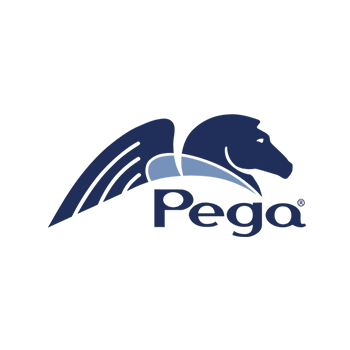
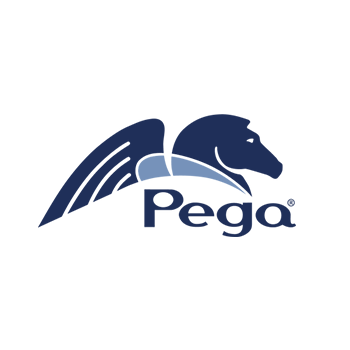
Update Career Pathway
Update Pega Icon image
Add SiteCore Icon

Changed region(s): [[0.1143, 0.3143, 0.8857, 0.6857]]

diff --git a/src/pages/CareerPathway/CareerPathway.js b/src/pages/CareerPathway/CareerPathway.js
@@ -6,7 +6,7 @@ import DevOpsIcon from "../../images/devops.png";
 import Pega from "../../images/pega.png";
 import BusinessAnalyst from "../../images/business-analyst.png";
 import DataAnalyst from "../../images/data-analytics.png";
-
+import SiteCore from "../../images/sitecore.png"
 import Quiz from "./Quiz";
 import RegisterYourInterest from "./RegisterYourInterest";
 import BackTopButton from "../../components/BackToTopButton";
@@ -15,6 +15,7 @@ import "./careerpathway.css";
 import Slider from "react-slick";
 import "./slick.css"; 
 import "./slick-theme.css";
+import Pathways from "./Pathways";
 
 
 const CPStyle = {
@@ -46,16 +47,22 @@ const CPStyle = {
     paddingBottom: "1%",
   },
 
+  slider:{
+    width: "65%",
+    padding: "1%",
+    marginBottom: "3%",
+  },
+
   card: {
-    width: "18rem",
-   // padding: "0.1rem",
-   // marginLeft: "1%",
-   // marginRight: "1%",
-   //marginBottom: "3%",
+    width: "50%",
+    padding: "1rem",
+    marginLeft: "1%",
+    marginRight: "1%",
+    marginBottom: "3%",
   },
 
   Image: {
-    objectFit: "contain",
+    objectFit: "scale-down",
   },
 };
 
@@ -67,7 +74,7 @@ const CareerPathway = () => {
       //centerMode: true,
       dots: true,
       infinite: true,
-     // centerPadding: "60px",
+      centerPadding: "60px",
       speed: 500,
       slidesToShow: 3,
       slidesToScroll: 3,
@@ -96,16 +103,15 @@ const CareerPathway = () => {
             Choose the right career through upskill program
           </p>
         </Row>
-      <Row xs={1} md={2} className="g-3 d-flex justify-content-center mb-5">  
-          <Slider {...settings}>
-          <Card style={CPStyle.card} className="rounded-4 me-auto">
+      <Row className="d-flex justify-content-center mb-5">  
+          <Slider {...settings} style={CPStyle.slider}>
+          <Card style={CPStyle.card} className="rounded-4">
             <Card.Img
               variant="top"
               src={JavaScriptIcon}
               className="rounded d-block"
               style={{
-                display: "block",
-                objectFit: "contain",
+                objectFit: "scale-down",
                 paddingTop: "5%",
                 }}
             />
@@ -133,7 +139,7 @@ const CareerPathway = () => {
               className="rounded d-block"
               style={{
                 display: "block",
-                objectFit: "contain",
+                objectFit: "scale-down",
                 paddingTop: "5%",
 
               }}
@@ -160,7 +166,7 @@ const CareerPathway = () => {
               className="rounded d-block"
               style={{
                 display: "block",
-                objectFit: "contain",
+                objectFit: "scale-down",
                 paddingTop: "5%",
               }}
             />
@@ -188,7 +194,7 @@ const CareerPathway = () => {
               className="rounded d-block"
               style={{
                 display: "block",
-                objectFit: "contain",
+                objectFit: "scale-down",
                 paddingTop: "5%",
               }}
             />
@@ -216,7 +222,7 @@ const CareerPathway = () => {
               className="rounded d-block"
               style={{
                 display: "block",
-                objectFit: "contain",
+                objectFit: "scale-down",
                 paddingTop: "5%",
               }}
             />
@@ -244,7 +250,7 @@ const CareerPathway = () => {
               className="rounded mx-0 d-block"
               style={{
                 display: "block",
-                objectFit: "contain",
+                objectFit: "scale-down",
                 paddingTop: "5%",
               }}
             />
@@ -265,10 +271,37 @@ const CareerPathway = () => {
               </Card.Text>
             </Card.Body>
           </Card>
-          
+          <Card style={CPStyle.card} className="rounded-4">
+            <Card.Img
+              variant="top"
+              src={SiteCore}
+              className="rounded mx-0 d-block"
+              style={{
+                display: "block",
+                objectFit: "scale-down",
+                paddingTop: "5%",
+              }}
+            />
+            <Card.Body>
+              <Card.Title className="d-flex justify-content-center">
+                Sitecore
+              </Card.Title>
+              <Card.Text className="d-flex justify-content-center"></Card.Text>
+              <Card.Text className="d-flex justify-content-center careerpathway">
+                <Link to="/PathwayDetails/DataAnalystCourse">
+                  {" "}
+                  <Button 
+                  className="careerpathway-button"
+                  >
+                    Find Out More
+                  </Button>
+                </Link>
+              </Card.Text>
+            </Card.Body>
+          </Card>
         </Slider> 
      </Row> 
-       
+           
         <Row>
           <Quiz />
         </Row>

diff --git a/src/pages/CareerPathway/Pathways.js b/src/pages/CareerPathway/Pathways.js
@@ -1,0 +1,47 @@
+import React from 'react'
+import Slider from "react-slick";
+import "./slick.css"; 
+import "./slick-theme.css";
+
+
+const Pathways = () => {
+    const settings = {
+       // className: "slider variable-width center",
+        //variableWidth: true,
+       // centerMode: true,
+        dots: true,
+        infinite: true,
+      //  centerPadding: "60px",
+        speed: 500,
+        slidesToShow: 3,
+        slidesToScroll: 3,
+  
+        responsive: [
+          {
+            breakpoint: 768,
+            settings: {
+              slidesToShow: 1,
+              slidesToScroll: 1,
+              arrows: false,
+            }
+          }
+        ]
+  
+      }
+  return (
+    <Slider {...settings} style={{width:"75%",margin:"auto"}}>
+    
+    <div ><h1 style={{border:"solid", justifyContent:"center"}} className="justify-content-center text-center mx-auto w-50">Pathways</h1></div>
+    <div ><h1 style={{border:"solid", justifyContent:"center"}} className="justify-content-center text-center w-50">Pathways</h1></div>
+    <div ><h1 style={{border:"solid", justifyContent:"center"}} className="justify-content-center text-center w-50">Pathways</h1></div>
+    <div ><h1 style={{border:"solid", justifyContent:"center"}} className="justify-content-center text-center w-50">Pathways</h1></div>
+    <div style={{border:"solid", justifyContent:"center"}} className="text-center"><h1>Pathways</h1></div>
+    <div style={{border:"solid", justifyContent:"center"}} className="text-center"><h1>Pathways</h1></div>
+    <div style={{border:"solid", justifyContent:"center"}} className="text-center"><h1>Pathways</h1></div>
+    <div style={{border:"solid", justifyContent:"center"}} className="text-center"><h1>Pathways</h1></div>
+    <div style={{border:"solid", justifyContent:"center"}} className="text-center"><h1>Pathways</h1></div>
+    </Slider>
+  )
+}
+
+export default Pathways

diff --git a/src/pages/CareerPathway/slick.css b/src/pages/CareerPathway/slick.css
@@ -4,7 +4,8 @@
     position: relative;
 
     display: block;
-    box-sizing: border-box;
+   box-sizing: border-box;
+   width: 100%;
 
     -webkit-user-select: none;
     -moz-user-select: none;
